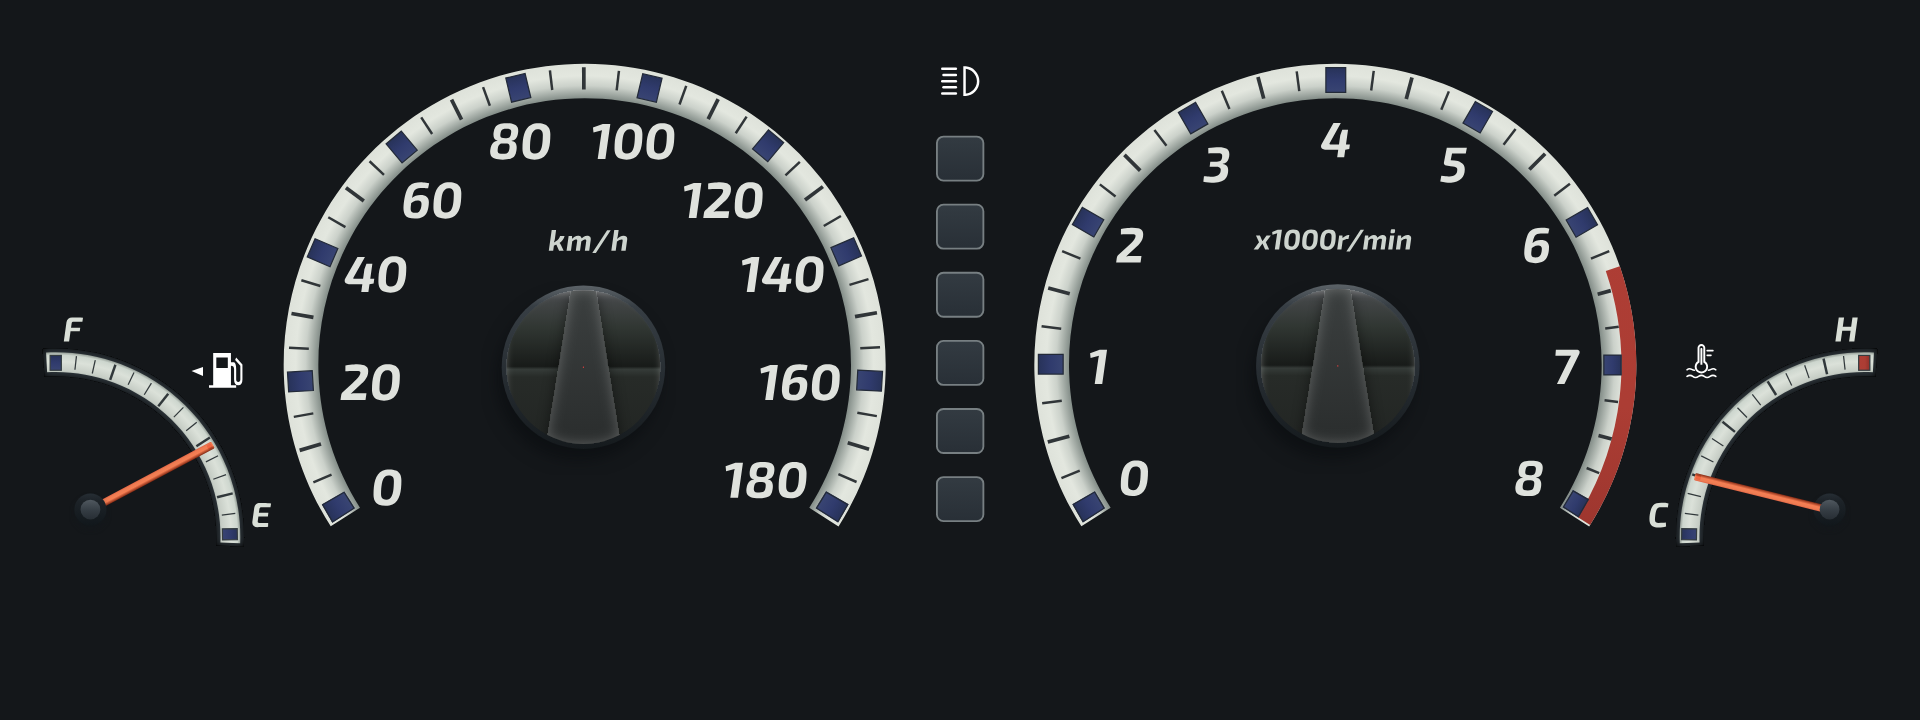
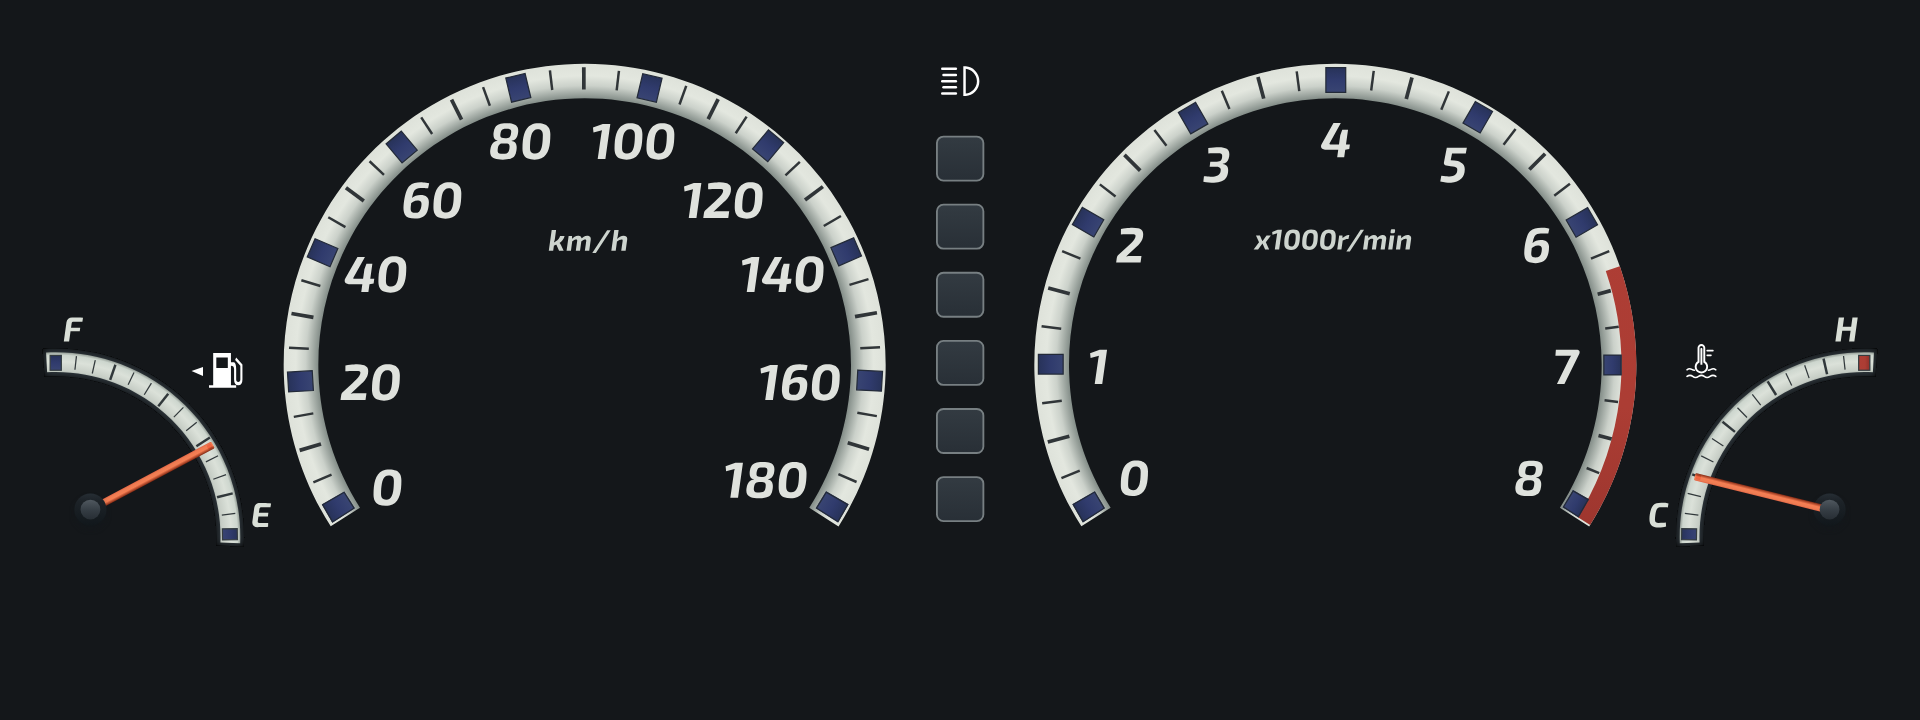
dsh: gaia_bake.py
Assisted-by: DSH

Changed region(s): [[0.6562, 0.3972, 0.75, 0.6111], [0.25, 0.3972, 0.3438, 0.6111]]

diff --git a/tools/gaia_bake.py b/tools/gaia_bake.py
@@ -45,6 +45,12 @@ ZONE_GEAR = (938.0, 128.0, 992.0, 532.0)     # буквы P R N D 2 L
 ZONE_LAMPS = (300.0, 552.0, 1640.0, 646.0)   # ряд ламп внизу
 NEEDLE_X = (575.0, 591.0)                    # колонна стрелки левого колодца
 NEEDLE_X2 = (1329.0, 1345.0)
+# Ступицы в основаниях стрелок (два концентрических круга + блик + красная
+# точка оси). По просьбе заказчика их в скине нет — остаются только стрелки,
+# поэтому из фона они тоже вырезаются: иначе вокруг каждой стрелки светился
+# бы круг, который не поворачивается вместе ней.
+ZONE_HUB_L = (487.0, 271.0, 680.0, 464.0)
+ZONE_HUB_R = (1241.0, 270.0, 1434.0, 462.0)
 
 
 def mat_mul(a, b):
@@ -233,6 +239,8 @@ def main():
             who = "наконечник стрелки"
         elif inside(bb, ZONE_ARROW_L) or inside(bb, ZONE_ARROW_R):
             who = "указатель поворота"
+        elif inside(bb, ZONE_HUB_L) or inside(bb, ZONE_HUB_R):
+            who = "ступица у основания стрелки"
         elif inside(bb, ZONE_GEAR):
             who = "буква передачи"
         elif inside(bb, ZONE_LAMPS):
